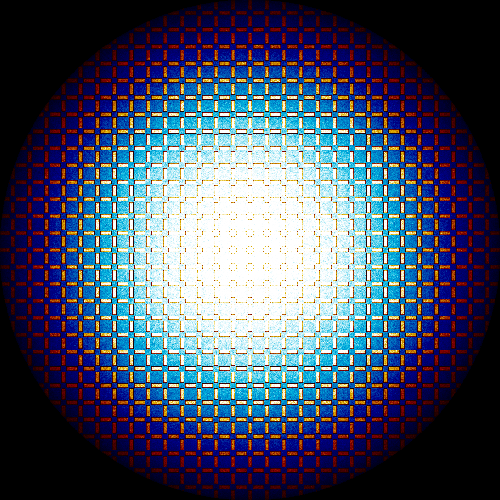
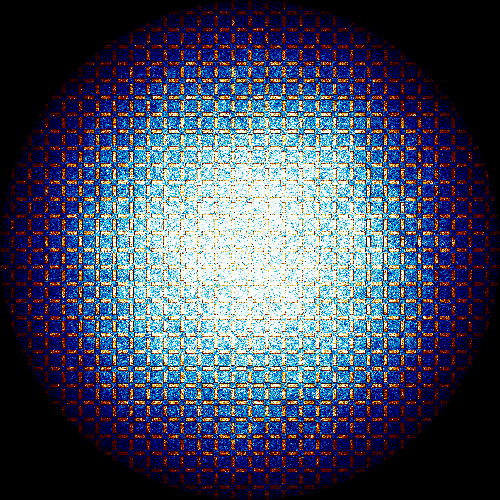
Python script for creating required serpent input files.

diff --git a/msre/step_temp.py b/msre/step_temp.py
@@ -1,0 +1,38 @@
+from shutil import copyfile
+import fileinput
+import re
+
+# These functions for density are based on volumetric expansion coefficients
+# given on page 40 of MSRE Design and Operations Report, Part iii, Nuclear
+# Analysis
+
+def fdens(temperature):
+    alpha_fuel_faeh = 1.18e-4
+    alpha_fuel_kel = 1.8 * alpha_fuel_faeh
+    rho0_fuel = 2.146
+    T0 = 922
+    return rho0_fuel * exp(-alpha_fuel_kel * (temperature - T0))
+
+def mdens(temperature):
+    alpha_graph_faeh = 1.0e-5
+    alpha_graph_kel = 1.8 * alpha_graph_faeh
+    rho0_graph = 1.86
+    T0 = 922
+    return rho0_graph * exp(-alpha_graph_kel * (temperature - T0))
+
+# MSRE fuel salt reactor inlet temperature = 1175 F = 908 K
+# Maximum MSRE graphite temperature = 1300 F = 978 K
+start = 900
+stop = 1000
+step = 50
+root = "msre2g_part_U_fulle_core"
+for temperature in range(start, stop + step, step):
+    file_name = root + "_" + str(temp)
+    copyfile(root, file_name)
+        for line in fileinput.input(file_name, inplace=True):
+            if re.search(r'2\.146 tmp 922', line):
+                print(line.replace(line, re.sub(r'2\.146.*', '{:.3f}'.format(fdens(temperature)) + " tmp " + str(temperature), line)), end="")
+            if re.search(r'1\.86 tmp 922', line):
+                print(line.replace(line, re.sub(r'1\.86.*', '{:.3f}'.format(mdens(temperature)) + " tmp " + str(temperature), line)), end="")
+            else:
+                print(line, end="")
